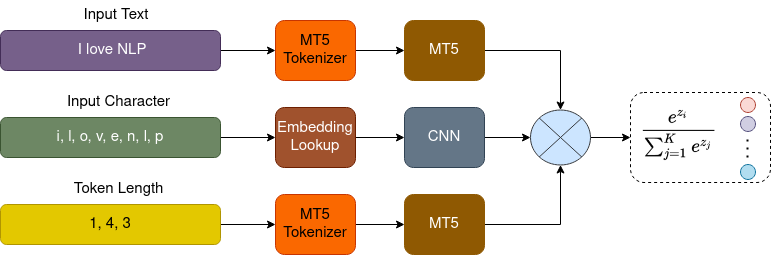
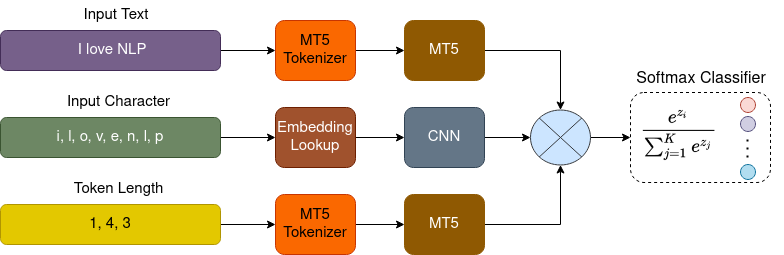
[add] Proposed Model is added.

diff --git a/README.md b/README.md
@@ -52,11 +52,23 @@ techniques for language identification.
 ![Token Length](assets/plots/token_length/token_length.png)
 <b style='text-align:center;'>Figure 2: Token length analysis for each class. </b>
 
-## 3. Proposed Model
-![Before Training](assets/plots/proposed_model/proposed_model.png)
-## 4. Results
+## 4. Proposed Model
+In this section, we present our proposed model, which uses various features for language identification. The input to our language model consists of three different components:
+    
+1. Sentence at the token level.
+2. Sentence at the character level. 
+3. Token length for each token represented as a sequence of strings.
 
-### 4.1 Metrics
+To effectively capture these features, we utilize the powerful Mt5-base model for feature extraction at the token level. Additionally, we employ token length for each token as a valuable feature for language identification. Our data analysis suggests that token length variations in different languages can serve as meaningful indicators for this task.
+
+For character-level input, we use an embedding lookup. To extract n-gram features from the character input, we employ a CNN module with 64 filters and window sizes of 3, 5, and 7.
+
+The process involves extracting features from both the Mt5-base model and the character-level CNN module. We then combine the final distributions over classes obtained from the softmax layer after each feature extraction moduel (MT5 and CNN). This combined distribution is utilized in the final softmax layer, which ultimately classifies each sentence.
+
+![Before Training](assets/plots/proposed_model/proposed_model.png)
+## 5. Results
+
+### 5.1 Metrics
 
 For the language identification task, we employ <b>accuracy</b> and <b>macro F1-score</b> as our
 primary evaluation metrics to analyze the performance of all models. Accuracy measures the overall
@@ -64,7 +76,7 @@ correctness of the model's predictions, reflecting the proportion of correctly c
 out of the total. On the other hand, macro F1-score considers both precision and recall for each
 class and then calculates the unweighted average across all classes.
 
-### 4.2 Baseline Models
+### 5.2 Baseline Models
 
 First, we examine the result
 of [Gaussian Naive Bayes](https://scikit-learn.org/stable/modules/generated/sklearn.naive_bayes.GaussianNB.html)
@@ -135,9 +147,9 @@ datasets. As a result, we consider this model as our baseline for future experim
 
 **Note**: `ml_classifier.py` script conduct machine learning analysis.
 
-### 4.3 Experimental Evaluations
+### 5.3 Experimental Evaluations
 
-#### 4.3.1 Language Model Analysis
+#### 5.3.1 Language Model Analysis
 
 In the initial step, we conduct a language identification task by evaluating two multilingual
 language models: XLM-RoBERTa-Base and MT5-base. For this analysis, we extract the first token,
@@ -210,7 +222,7 @@ F1-score on both the test and development data.
 <b style='text-align:center;'>Table 2: Analysis of XLM-RoBERTa-Base and MT5-Base with different
 pooling methods.</b>
 
-#### 4.3.2 Using Character-Based Features
+#### 5.3.2 Using Character-Based Features
 
 In This part we use two character-based
 <table style='text-align:center;'>
@@ -243,17 +255,17 @@ In This part we use two character-based
 
   <tr>
   <td>MT5-Base (First Token) + Token Length </td>
-    <td colspan="2">  </td>
-    <td colspan="2">  </td>
-    <td colspan="2">  </td>
-    <td colspan="2">  </td>
+    <td colspan="2"> 99.73 </td>
+    <td colspan="2"> 99.73 </td>
+    <td colspan="2"> 99.69 </td>
+    <td colspan="2">  99.67 </td>
   </tr>
   <tr>
   <td>MT5-Base (Mean) + Token Length </td>
-    <td colspan="2">  </td>
-    <td colspan="2">  </td>
-    <td colspan="2">  </td>
-    <td colspan="2">  </td>
+    <td colspan="2"> 99.73 </td>
+    <td colspan="2"> 99.70 </td>
+    <td colspan="2"> 99.69 </td>
+    <td colspan="2"> 99.65 </td>
   </tr>
 
   <tr>
